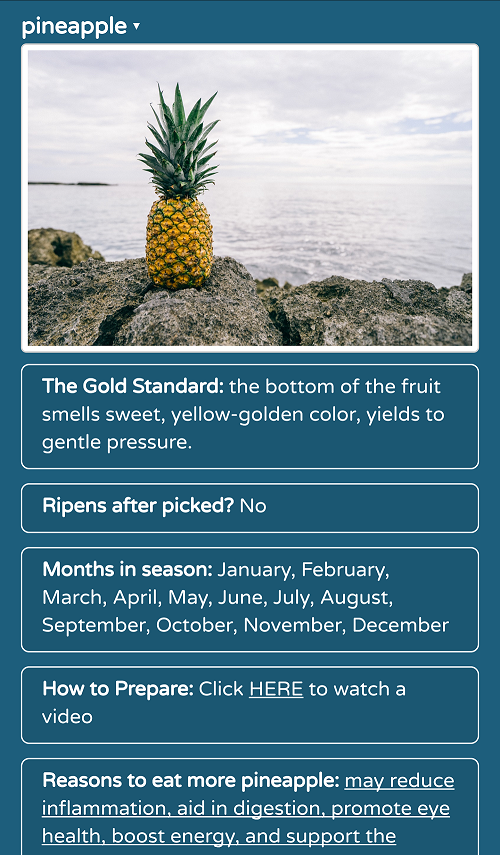
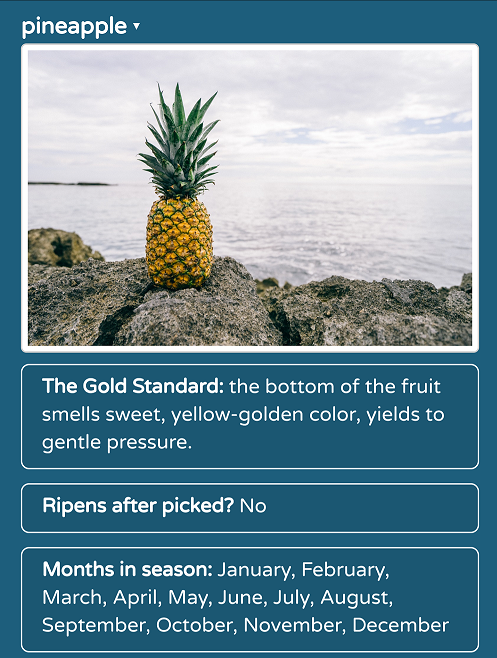
add table to README

diff --git a/README.md b/README.md
@@ -12,7 +12,7 @@ You can checkout Seasonal [here](https://jaketripp.github.io/Seasonal/). Next ti
  * which months the fruit is in season
  * health benefits of eating the fruit
 
- ###### A sample month and fruit
- ![alt tag](https://github.com/jaketripp/Seasonal/blob/master/images/screenshots/seasonal1.png)
-
- ![alt tag](https://github.com/jaketripp/Seasonal/blob/master/images/screenshots/seasonal2.png)
+###### A sample month and fruit
+Sample Month             |  Sample Fruit
+:-------------------------:|:-------------------------:
+![September 2017](https://github.com/jaketripp/Seasonal/blob/master/images/screenshots/seasonal1.png)  |  ![Pineapple info](https://github.com/jaketripp/Seasonal/blob/master/images/screenshots/seasonal2.png)
